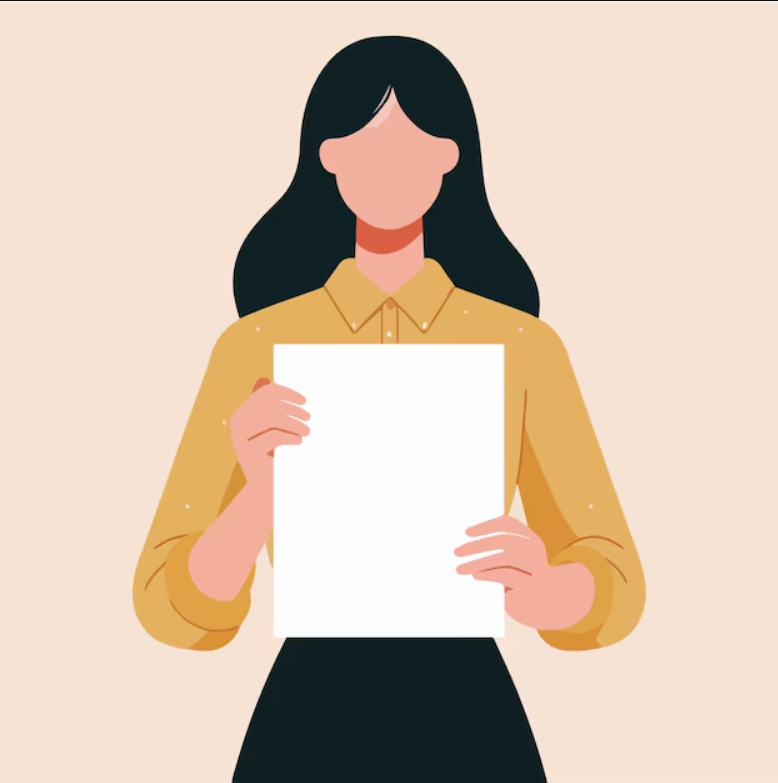
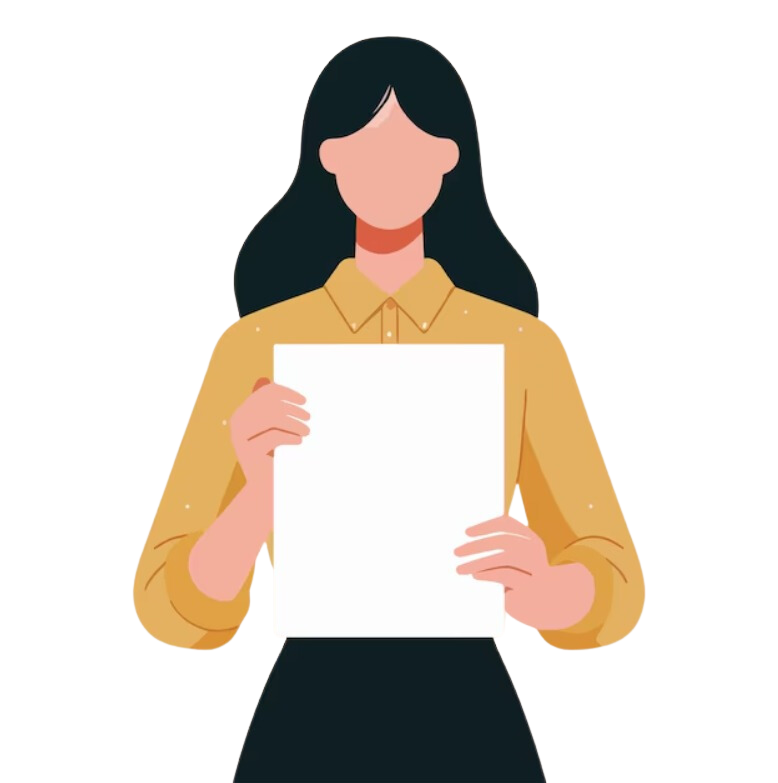
png added

diff --git a/index.html b/index.html
@@ -53,13 +53,13 @@
             <img src="engineering.png" alt="engineering">
         </div>
         <div class="image-item">
-            <img src="arts.jpg" alt="arts">
+            <img src="arts.png" alt="arts">
         </div>
         <div class="image-item">
             <img src="business.png" alt="business">
         </div>
         <div class="image-item">
-            <img src="music.jpg" alt="music">
+            <img src="music.png" alt="music">
         </div>
     </div>
 </section>
